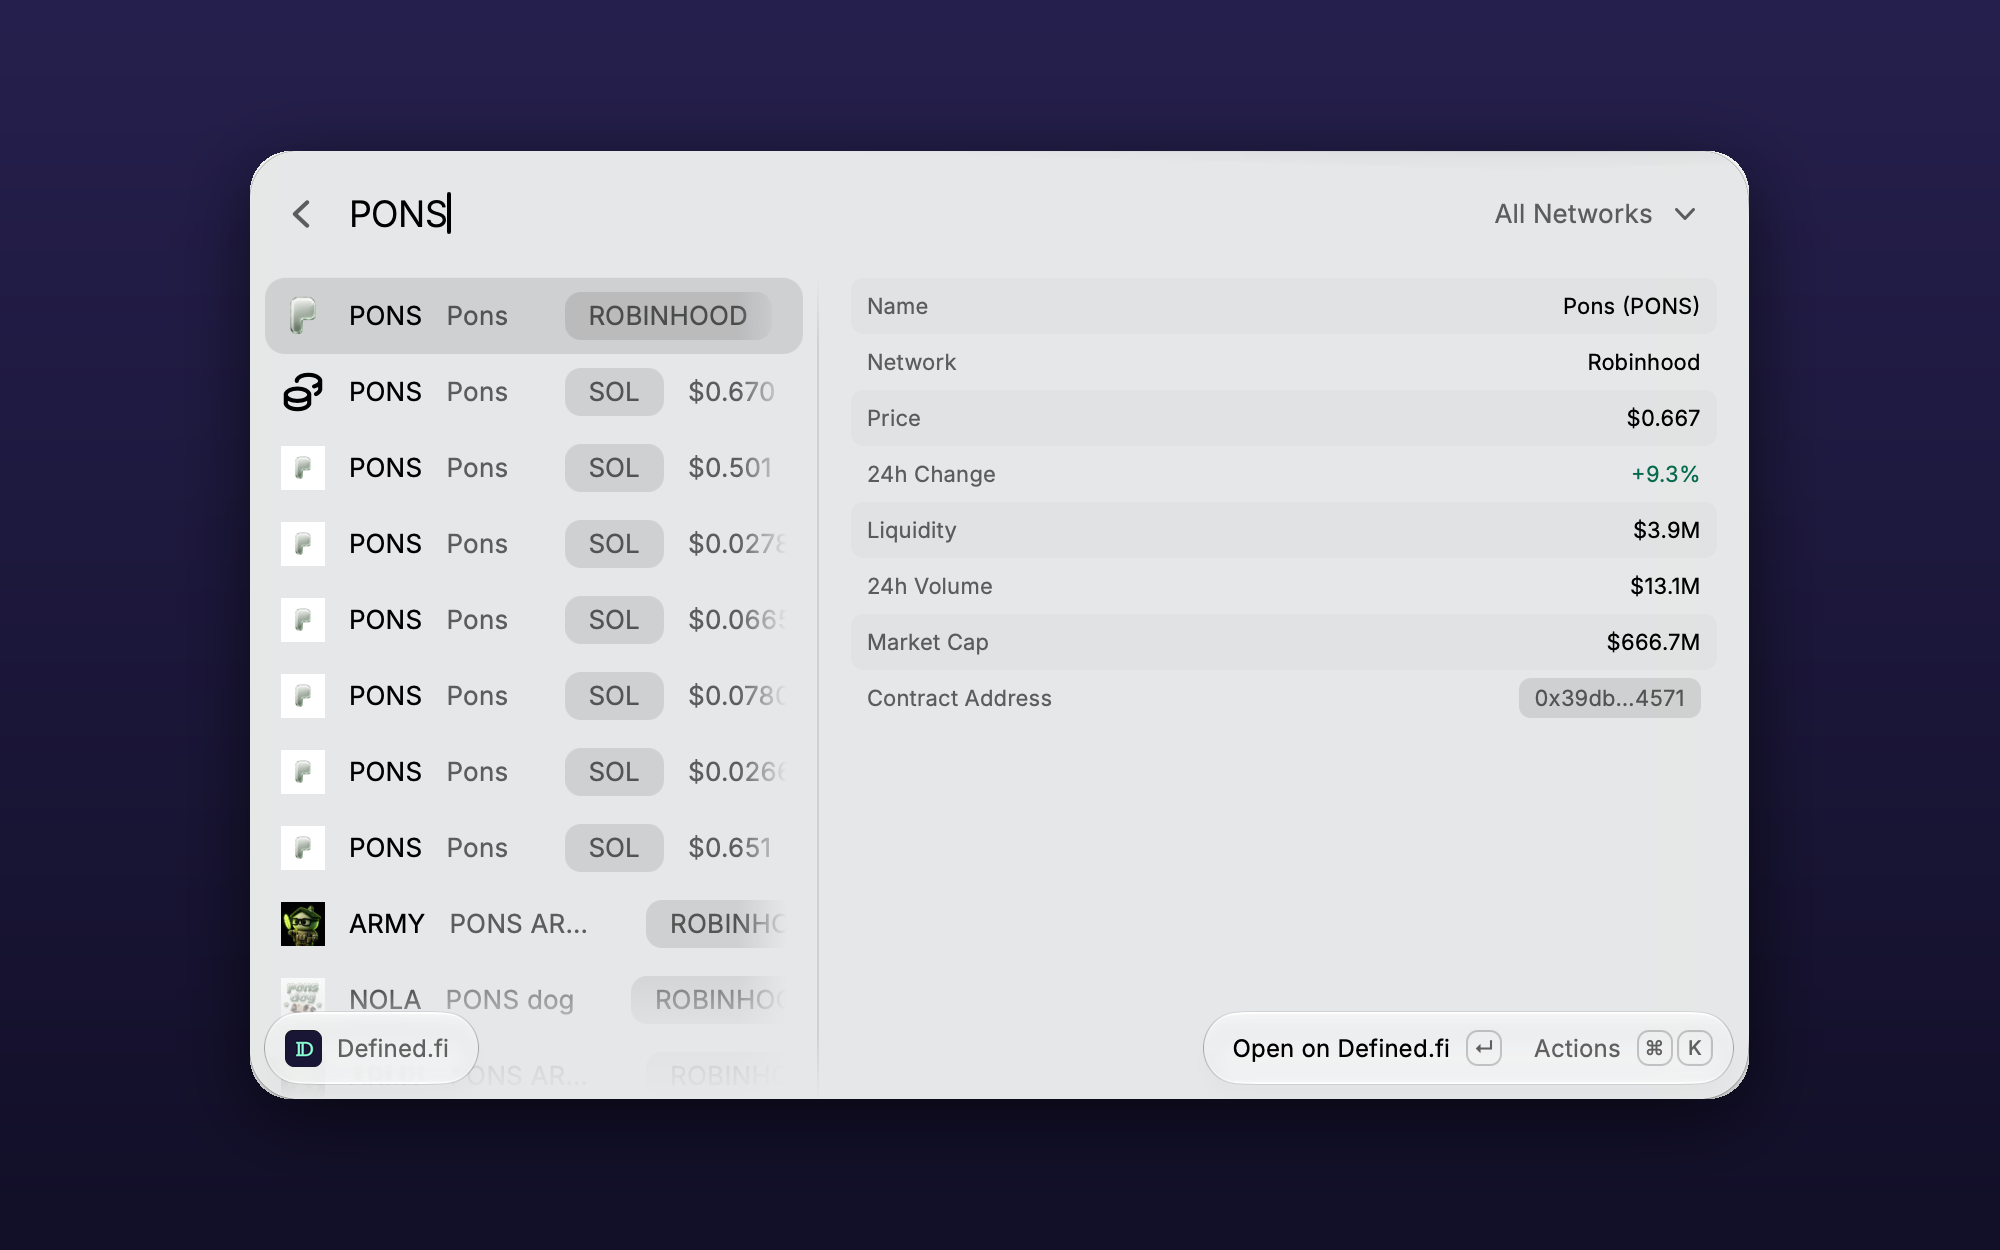
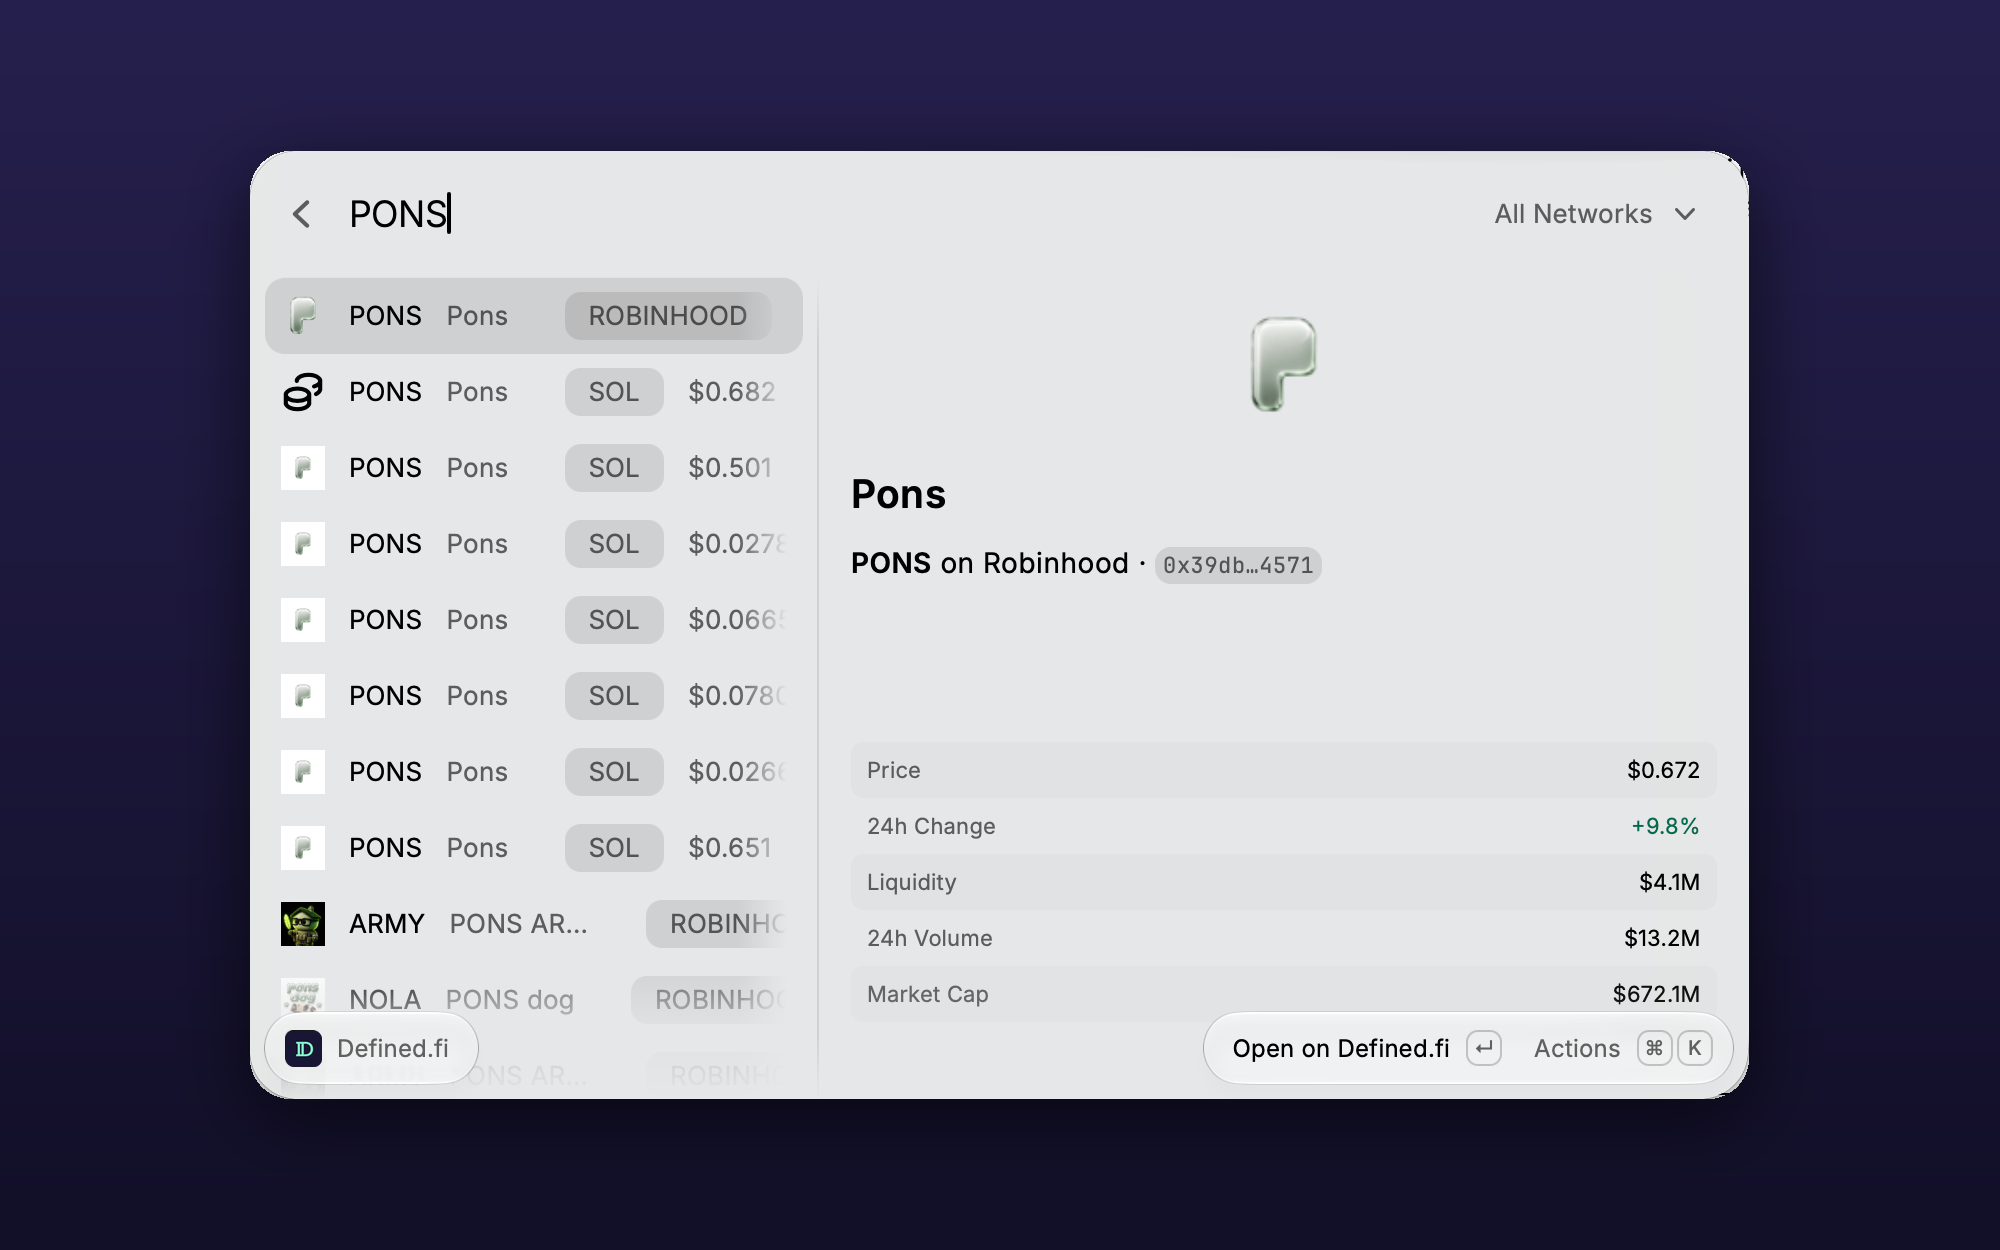
Fit all detail stats; move the short address into the header
Raycast gives the metadata a fixed height, so with the header the address
row was cut off. The header now shows it next to the network; ⌘⇧C still
copies the full address. Retake screenshot 2.

Claude-Session: https://claude.ai/code/session_01MwQNPodwGrvtMgZpcbNyou

diff --git a/src/search.tsx b/src/search.tsx
@@ -5,7 +5,6 @@ import { useCallback, useEffect, useRef, useState } from "react";
 import {
   Action,
   ActionPanel,
-  Clipboard,
   closeMainWindow,
   Color,
   Icon,
@@ -24,7 +23,7 @@ import { Onboarding } from "./components/Onboarding";
 import { CodexError } from "./lib/types";
 import type { Network, TokenResult } from "./lib/types";
 import { addRecent, clearRecents, getRecents } from "./lib/recents";
-import { formatAddress, formatPercent, formatUsd, isFlatChange, tokenHeaderMarkdown } from "./lib/format";
+import { formatPercent, formatUsd, isFlatChange, tokenHeaderMarkdown } from "./lib/format";
 
 const SEARCH_DEBOUNCE_MS = 300;
 
@@ -388,13 +387,6 @@ function TokenDetail({ token }: { token: TokenResult }) {
           <List.Item.Detail.Metadata.Label title="Liquidity" text={formatUsd(token.liquidityUsd)} />
           <List.Item.Detail.Metadata.Label title="24h Volume" text={formatUsd(token.volume24Usd)} />
           <List.Item.Detail.Metadata.Label title="Market Cap" text={formatUsd(token.marketCapUsd)} />
-          <List.Item.Detail.Metadata.Separator />
-          <List.Item.Detail.Metadata.TagList title="Contract Address">
-            <List.Item.Detail.Metadata.TagList.Item
-              text={formatAddress(token.address)}
-              onAction={() => void copyAddress(token.address)}
-            />
-          </List.Item.Detail.Metadata.TagList>
         </List.Item.Detail.Metadata>
       }
     />
@@ -413,12 +405,6 @@ async function openOnDefined(token: TokenResult, onOpen: (token: TokenResult) =>
     await open(token.definedUrl);
     await closeMainWindow({ clearRootSearch: true, popToRootType: PopToRootType.Immediate });
   }
-}
-
-/** Detail labels cannot show tooltips, so the truncated address copies the full one on click. */
-async function copyAddress(address: string) {
-  await Clipboard.copy(address);
-  await showToast({ style: Toast.Style.Success, title: "Copied contract address", message: address });
 }
 
 function changeColor(change?: number): Color | undefined {

diff --git a/src/lib/format.test.ts b/src/lib/format.test.ts
@@ -97,7 +97,12 @@ describe("formatAddress", () => {
 });
 
 describe("tokenHeaderMarkdown", () => {
-  const token = { name: "Pons", symbol: "PONS", networkName: "Robinhood" };
+  const token = {
+    name: "Pons",
+    symbol: "PONS",
+    networkName: "Robinhood",
+    address: "0x39dbed3a2bd333467115de45665cc57f813c4571",
+  };
 
   it("sizes the logo, appending to an existing query string", () => {
     expect(tokenHeaderMarkdown({ ...token, imageUrl: "https://img/p.png" })).toContain(
@@ -109,9 +114,9 @@ describe("tokenHeaderMarkdown", () => {
   });
 
   it("omits the image when there is none and escapes Markdown in names", () => {
-    const md = tokenHeaderMarkdown({ name: "*Evil* _Coin_", symbol: "EV#L", networkName: "Solana" });
+    const md = tokenHeaderMarkdown({ ...token, name: "*Evil* _Coin_", symbol: "EV#L", networkName: "Solana" });
     expect(md).not.toContain("![]");
     expect(md).toContain("## \\*Evil\\* \\_Coin\\_");
-    expect(md).toContain("**EV\\#L** on Solana");
+    expect(md).toContain("**EV\\#L** on Solana · `0x39db…4571`");
   });
 });

diff --git a/src/lib/format.ts b/src/lib/format.ts
@@ -100,13 +100,14 @@ function escapeMarkdown(text: string): string {
 }
 
 /**
- * Header for the detail pane: logo, name, symbol, and network. Raycast sizes
+ * Header for the detail pane: logo, name, symbol, network, and short address. Raycast sizes
  * Markdown images through the raycast-width/height query parameters.
  */
 export function tokenHeaderMarkdown(token: {
   name: string;
   symbol: string;
   networkName: string;
+  address: string;
   imageUrl?: string;
 }): string {
   const lines: string[] = [];
@@ -115,6 +116,8 @@ export function tokenHeaderMarkdown(token: {
     lines.push(`![](${token.imageUrl}${sep}raycast-width=56&raycast-height=56)`, "");
   }
   lines.push(`## ${escapeMarkdown(token.name || token.symbol)}`, "");
-  lines.push(`**${escapeMarkdown(token.symbol)}** on ${escapeMarkdown(token.networkName)}`);
+  lines.push(
+    `**${escapeMarkdown(token.symbol)}** on ${escapeMarkdown(token.networkName)} · \`${formatAddress(token.address)}\``,
+  );
   return lines.join("\n");
 }
